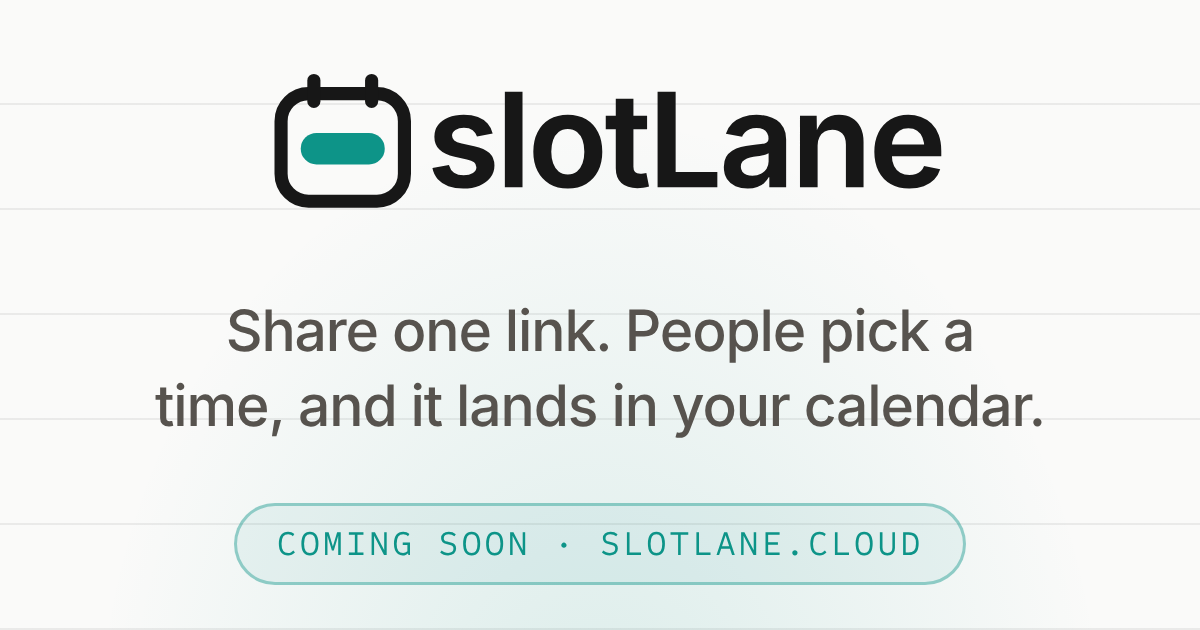
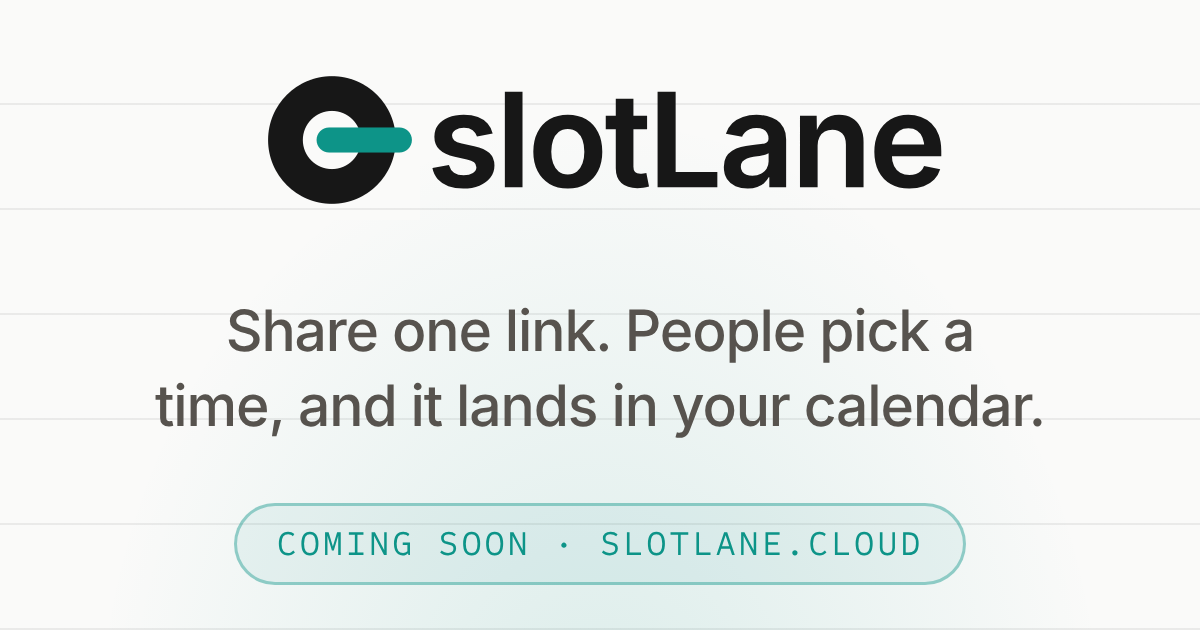
Use the new slotLane ring mark across product branding (#129)

Changed region(s): [[0.2158, 0.1206, 0.37, 0.3317]]

diff --git a/src/components/site/slotlane-cal.ts b/src/components/site/slotlane-cal.ts
@@ -1,18 +1,11 @@
 /**
- * The slotLane mark: a calendar page with its two rings, and one booked slot across it in teal. The same geometry as
- * the slotLane app's own logo (slotlane repo, src/brand/logo-parts.js), on its 64 grid.
- *
- * The app draws it in a 0 0 64 64 box with room around it. Here the box is cropped to the drawing (6..58 across,
- * 7..58 down), so at the same size it fills its square as fully as the b, the d and the p beside it.
+ * The slotLane "slot through the ring" mark. Geometry matches slotLane's src/brand/logo-parts.js
+ * and the supplied SVG, with a 158/72-radius even-odd ring and a 236-by-62 teal pill.
  */
-export const CAL_VIEWBOX = "4 4.5 56 56"
+export const CAL_VIEWBOX = "-20 5 396 396"
 export const CAL = {
-  frame: { x: 8.5, y: 14.5, width: 47, height: 41, rx: 10.5, strokeWidth: 5 },
-  rings: [
-    { x: 18.5, y: 7, width: 5, height: 13, rx: 2.5 },
-    { x: 40.5, y: 7, width: 5, height: 13, rx: 2.5 },
-  ],
-  slot: { x: 16, y: 29.5, width: 32, height: 12, rx: 6 },
+  ring: "M0 203a158 158 0 1 0 316 0a158 158 0 1 0 -316 0ZM86 203a72 72 0 1 0 144 0a72 72 0 1 0 -144 0Z",
+  slot: { x: 120, y: 172, width: 236, height: 62, rx: 31 },
 } as const
 /** The slot's teal: deeper on light backgrounds, brighter on dark (the app's own two shades). */
 export const SLOT_LIGHT = "#0D9488"
@@ -24,7 +17,6 @@ export function calSvg({ size, ink, slot = SLOT_LIGHT, background, radius = 0, p
   const pad = w * padding
   const vb = [x - pad, y - pad, w + pad * 2, w + pad * 2]
   const bg = background ? `<rect x="${vb[0]}" y="${vb[1]}" width="${vb[2]}" height="${vb[3]}" rx="${Number((vb[2] * radius).toFixed(2))}" fill="${background}"/>` : ""
-  const f = CAL.frame, s = CAL.slot
-  const rings = CAL.rings.map((r) => `<rect x="${r.x}" y="${r.y}" width="${r.width}" height="${r.height}" rx="${r.rx}" fill="${ink}"/>`).join("")
-  return `<svg xmlns="http://www.w3.org/2000/svg" width="${size}" height="${size}" viewBox="${vb.join(" ")}" role="img" aria-label="slotLane">${bg}<rect x="${f.x}" y="${f.y}" width="${f.width}" height="${f.height}" rx="${f.rx}" fill="none" stroke="${ink}" stroke-width="${f.strokeWidth}"/>${rings}<rect x="${s.x}" y="${s.y}" width="${s.width}" height="${s.height}" rx="${s.rx}" fill="${slot}"/></svg>`
+  const s = CAL.slot
+  return `<svg xmlns="http://www.w3.org/2000/svg" width="${size}" height="${size}" viewBox="${vb.join(" ")}" role="img" aria-label="slotLane">${bg}<path d="${CAL.ring}" fill="${ink}" fill-rule="evenodd"/><rect x="${s.x}" y="${s.y}" width="${s.width}" height="${s.height}" rx="${s.rx}" fill="${slot}"/></svg>`
 }

diff --git a/src/components/site/slotlane-cal.test.ts b/src/components/site/slotlane-cal.test.ts
@@ -1,0 +1,29 @@
+import { test } from "node:test"
+import assert from "node:assert/strict"
+import { readFileSync } from "node:fs"
+import { CAL, CAL_VIEWBOX, SLOT_DARK, SLOT_LIGHT, calSvg } from "./slotlane-cal.ts"
+
+test("slotLane uses the supplied even-odd ring and centred pill", () => {
+  assert.equal(CAL_VIEWBOX, "-20 5 396 396")
+  assert.equal(CAL.ring, "M0 203a158 158 0 1 0 316 0a158 158 0 1 0 -316 0ZM86 203a72 72 0 1 0 144 0a72 72 0 1 0 -144 0Z")
+  assert.deepEqual(CAL.slot, { x: 120, y: 172, width: 236, height: 62, rx: 31 })
+  for (const size of [16, 32, 128]) {
+    const svg = calSvg({ size, ink: "#171717" })
+    assert.ok(svg.includes(`width="${size}" height="${size}"`))
+    assert.ok(svg.includes(`d="${CAL.ring}" fill="#171717" fill-rule="evenodd"`))
+    assert.ok(svg.includes(`x="120" y="172" width="236" height="62" rx="31" fill="${SLOT_LIGHT}"`))
+  }
+})
+
+test("the generated public SVGs keep the same ring, slot and theme colours", () => {
+  for (const [file, ink, slot] of [
+    ["slotlane-mark-on-white.svg", "#171717", SLOT_LIGHT],
+    ["slotlane-mark-on-black.svg", "#ffffff", SLOT_DARK],
+    ["slotlane-icon.svg", "#ffffff", SLOT_DARK],
+  ]) {
+    const svg = readFileSync(new URL(`../../../public/brand/${file}`, import.meta.url), "utf8")
+    assert.ok(svg.includes(`d="${CAL.ring}" fill="${ink}" fill-rule="evenodd"`), file)
+    assert.ok(svg.includes(`x="120" y="172" width="236" height="62" rx="31" fill="${slot}"`), file)
+    assert.doesNotMatch(svg, /stroke-width=/)
+  }
+})

diff --git a/src/components/site/lane-logos.tsx b/src/components/site/lane-logos.tsx
@@ -20,11 +20,9 @@ const a11yOf = (label: string, decorative?: boolean) => (decorative ? { "aria-hi
 const cls = (className?: string) => (className ? `shrink-0 ${className}` : "shrink-0")
 
 export function SlotlaneMark({ size = 20, className, label = "slotLane", decorative = true }: MarkProps) {
-  const f = CAL.frame
   return (
     <svg width={size} height={size} viewBox={CAL_VIEWBOX} className={cls(className)} {...a11yOf(label, decorative)}>
-      <rect x={f.x} y={f.y} width={f.width} height={f.height} rx={f.rx} fill="none" stroke="currentColor" strokeWidth={f.strokeWidth} />
-      {CAL.rings.map((r) => <rect key={r.x} {...r} fill="currentColor" />)}
+      <path d={CAL.ring} fill="currentColor" fillRule="evenodd" />
       <rect {...CAL.slot} style={{ fill: `var(--slotlane-slot, ${SLOT_LIGHT})` }} />
     </svg>
   )
